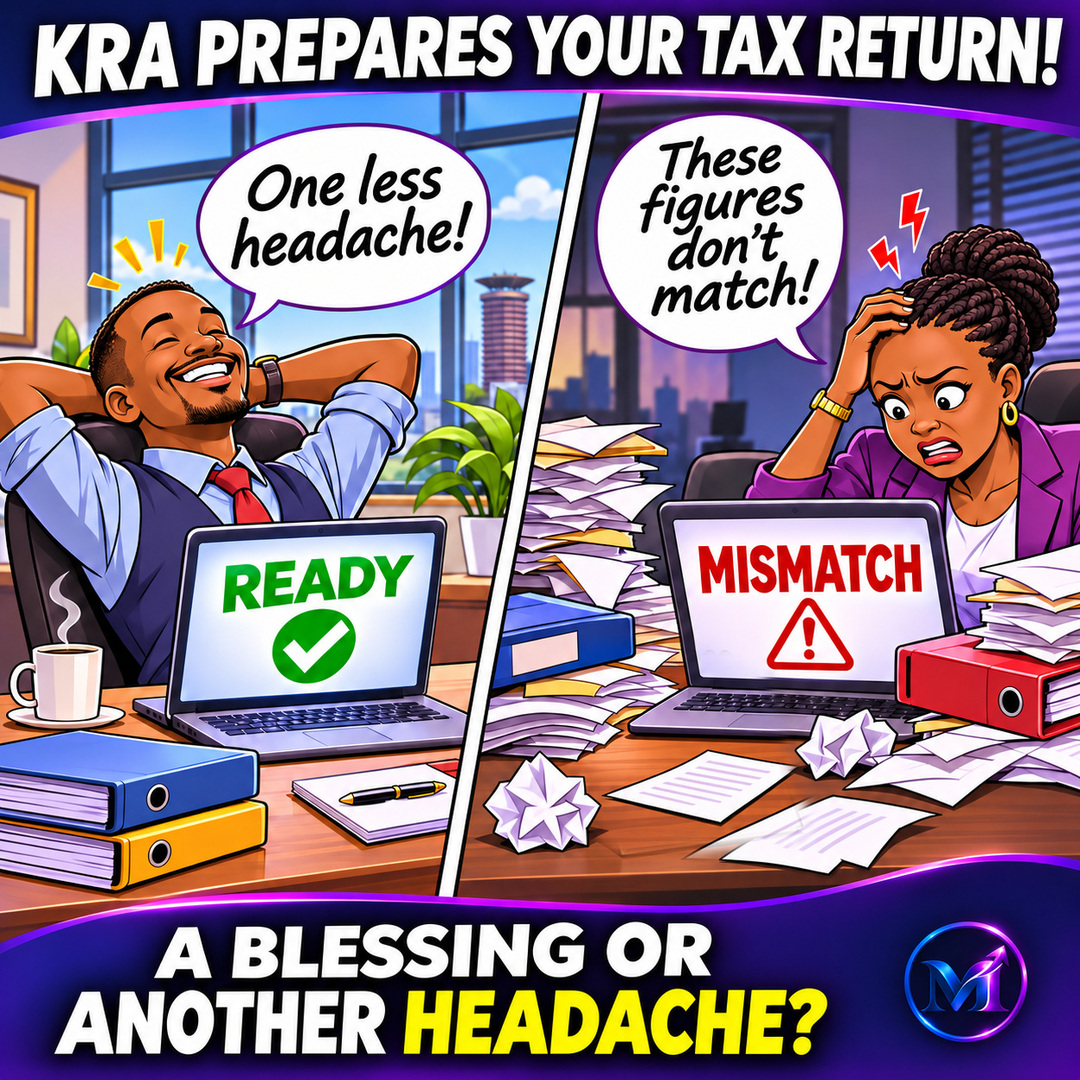
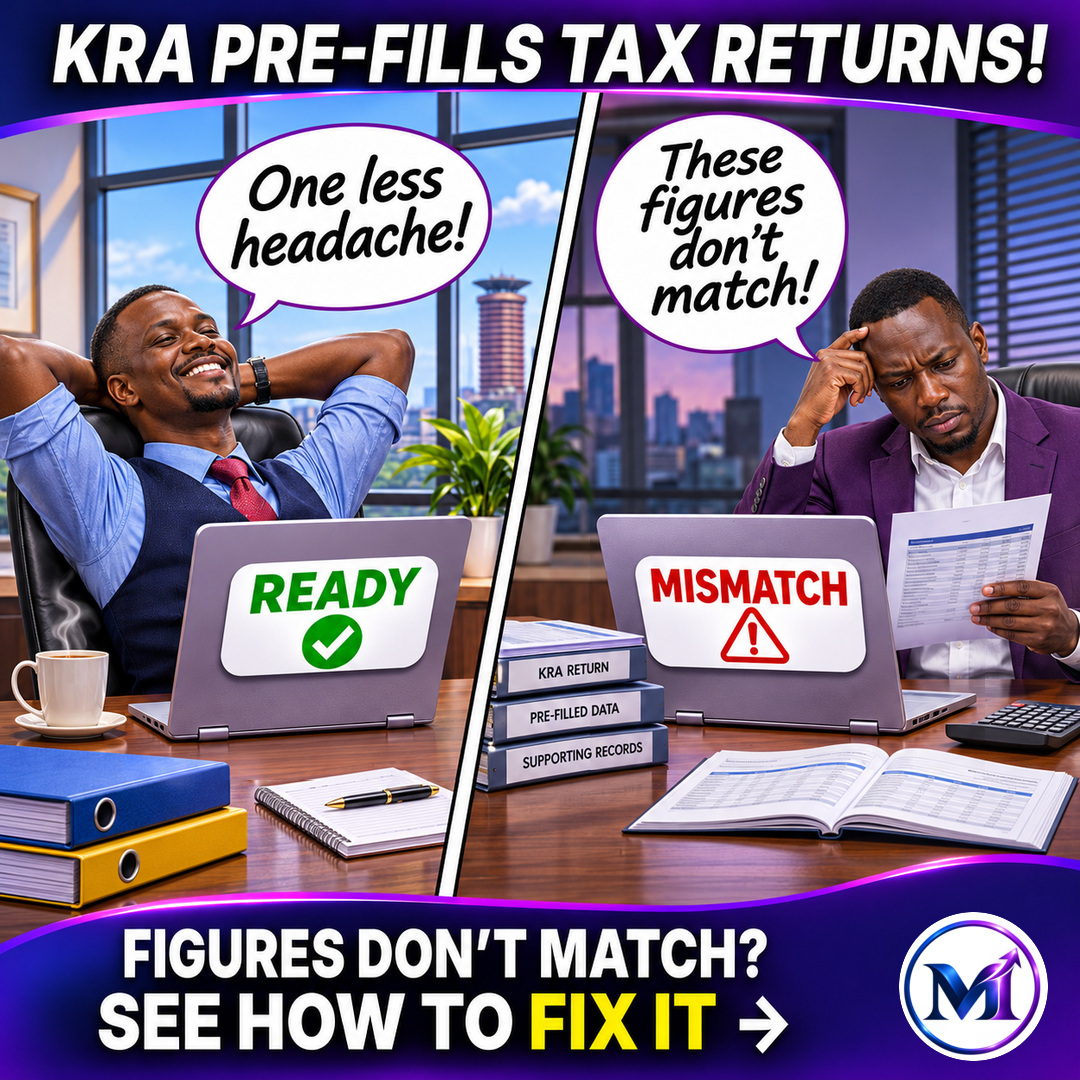
Publish refined KRA meme with corrected laptop perspective

diff --git a/src/data/funny-bizz.ts b/src/data/funny-bizz.ts
@@ -89,8 +89,8 @@ export const funnyBizzItems: readonly FunnyBizzItem[] = [
     commentaryTitle: "KRA's Pre-Filled Returns: Are You Ready?",
     commentaryCopyHtml: kraCommentary,
     copy: kraCommentary.replace(/<[^>]*>/g, ''),
-    image: '/images/kra-prepopulated-tax-return-blessing-or-headache.jpg',
-    alt: 'Biz Buzz cartoon contrasting two Kenyan business owners reviewing KRA tax returns. One sees READY and celebrates; the other sees MISMATCH and worries about discrepancies.',
+    image: '/images/kra-pre-filled-returns-laptops-corrected-v3.jpg',
+    alt: 'Editorial illustration contrasting two Kenyan male business professionals and KRA pre-filled tax returns. A relaxed man has a READY status callout; a concerned man checks records beside a MISMATCH callout. Both laptops show their rear lids to the viewer.',
     archiveSummary: "KRA's move towards pre-populated tax returns promises simpler filing, but inaccurate or incomplete information could create headaches. The difference may depend on how well businesses maintain and reconcile their records.",
     seoTitle: 'KRA Pre-Populated Tax Returns: Blessing or Headache?',
     metaDescription: 'KRA may prepare your tax return. Could that simplify filing or create more work? Explore the benefits, risks and importance of reliable business records.',
